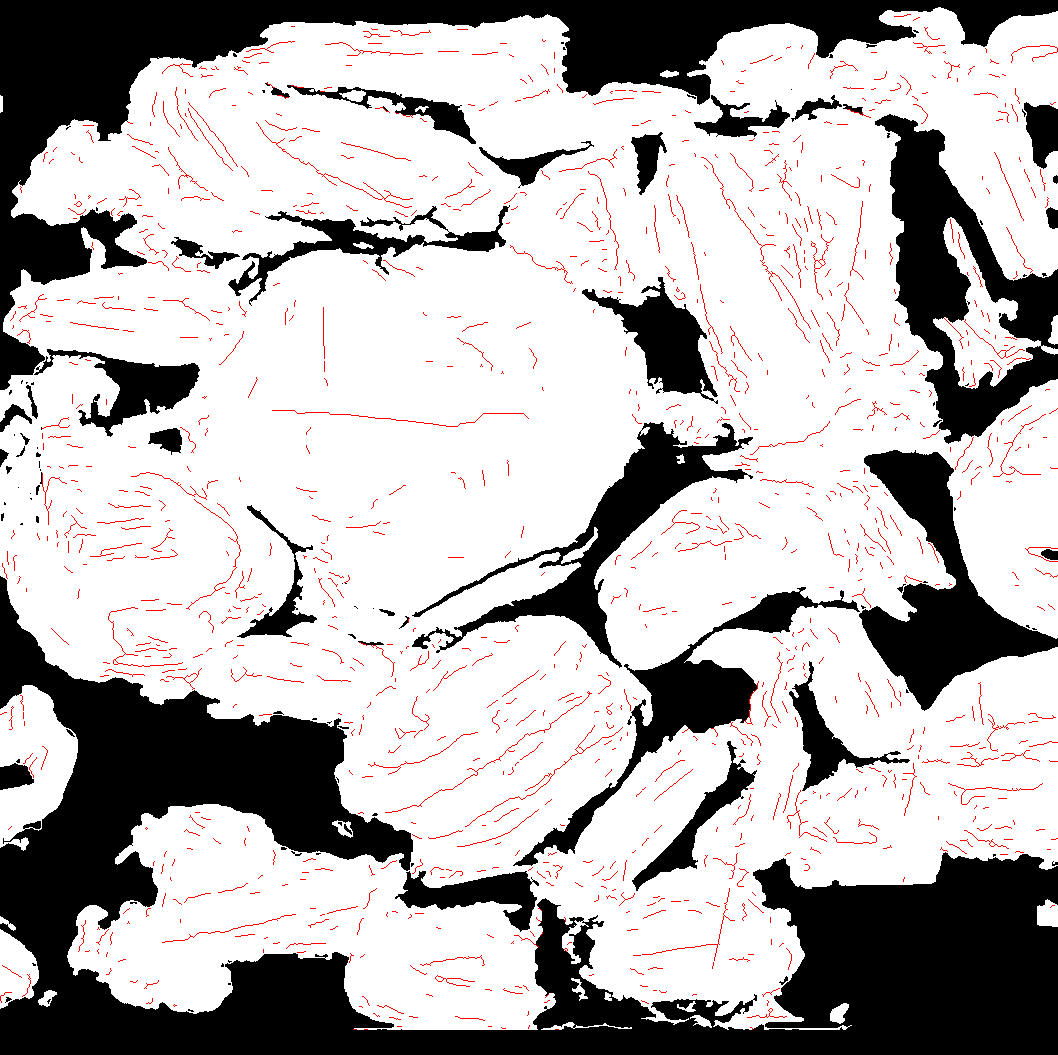
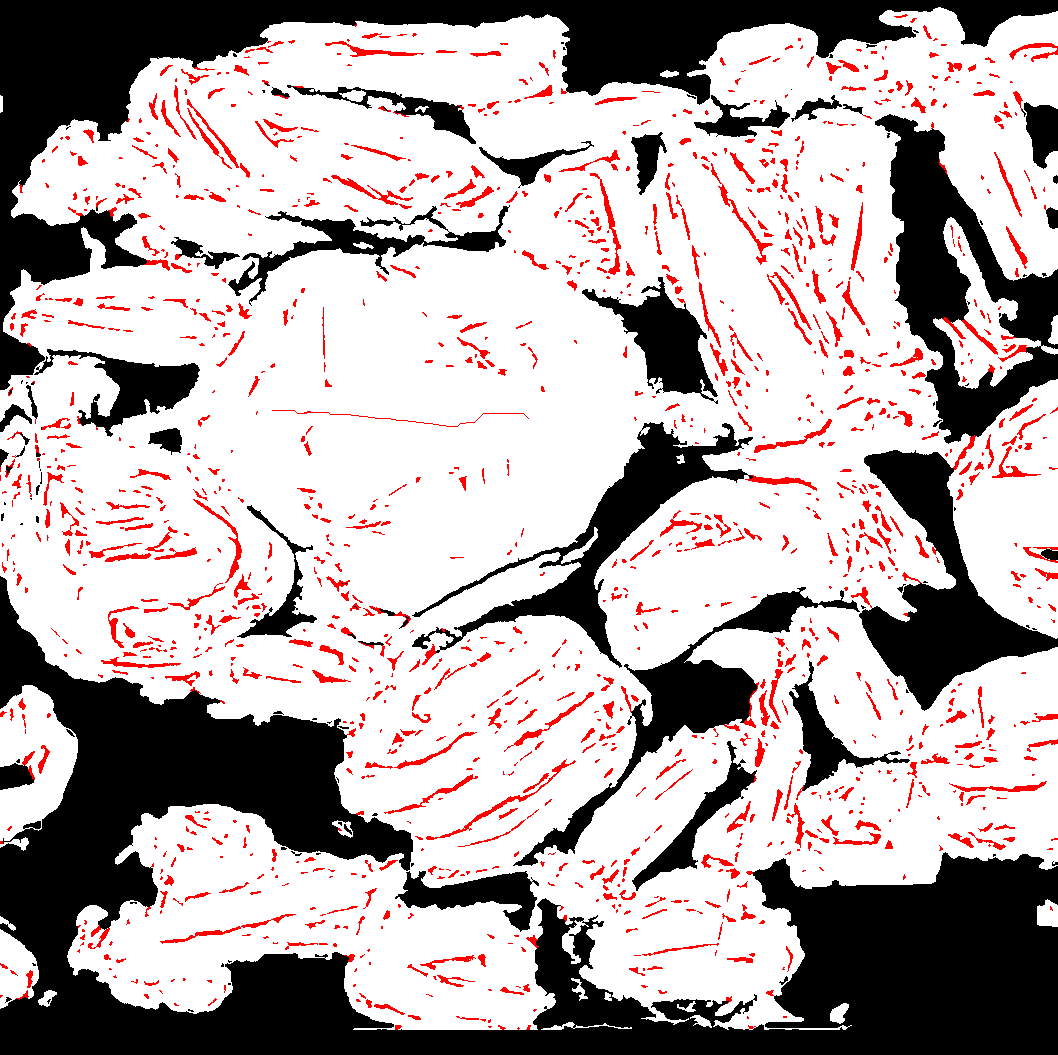
Draw sample4's cracks at the width visible in the image

diff --git a/docs/dino-features.md b/docs/dino-features.md
@@ -72,7 +72,7 @@ The seeds come from brightness, so particle/pore/binder favour brightness featur
 | 1 | particle (white), pore (black), crack (red); every pixel scored | `make_truth.py`, then binder merged into pore; unscored specks under 30 px take their nearest label, wider unscored areas split at the particle edge level (141.5). Cracks are then thinned to pixels at least 12 gray levels darker than a 5 px closing of the image; crack lines lying mostly along pore are pore. Thin pore (half-width ≤ 2.5 px) more than 3 px inside a particle outline (4 px closing) is crack. Crack lines of at least 10 px within 2 px of a large particle's convex outline (pieces of 2 000 px or more) that open onto pore are gaps between particles and become pore. Second pass with sample2's gap tools (cracks counted as part of their particle for connectivity): line-filter cut with thresholds scaled by the particle–pore contrast (×1.68), rim revert, pruning and thinning; 12 hand cuts between big particles and the grain clusters touching them; then the faintest 48 of 154 added seams checked by eye and 25 joined again (502 → 619 pieces) |
 | 2 | particle (white), pore (black), crack (red); every pixel scored | `make_truth.py --scale .5 --split`, then sample1's clean-up (binder into pore, unscored filled at edge level 109.5, cracks thinned), then only long line-shaped cracks kept and each of the remaining 19 checked by eye: 6 kept. Particle outlines were then redrawn from the image: luminance smoothed at σ 0.7 above 109.5, holes up to 6 px filled, specks up to 4 px dropped; touching particles were split along thin dark lines found by an oriented line filter (hysteresis 12 / 5, see `study.md`), cuts that separate nothing or that only shave particle rims were undone, and 25 faint gaps were cut by hand along the darkest path, piece by piece. Gaps were then thinned to their darkest separating line (brightest gap pixels given back while they join nothing), and dark lines inside one particle (line score above 9, at least 2 px from the outline, 6 px long) became crack after a check by eye: 27 of 59 kept. Finally every added seam between two pieces was ranked by contrast (particle beside it minus the seam) and the 120 faintest were checked by eye: 49 with no visible gap were joined again |
 | 3 | large particle (white), small particle (blue), pore (black); every pixel scored | Background-corrected foreground (smoothed level minus a 5th-percentile background over ~60 px, above 18), holes and specks up to 20 / 6 px filled; dark seams cut with the line filter (score > 24 reaching pore, > 12 joined to it); large where a disk of radius 7 fits after the cut, regrown 4 px inside the particle; seam pixels take the nearer side; shaded faces of large particles joined to them after a check by eye (3, then 39 of 91 candidates); finally a 1 px pore line between every two particles (small: seam-cut pieces of 8 px or more; large: pieces of 150 px or more after cutting along line score > 12; other pixels take the nearest piece of their class); then a hand pass: arms split off large particles, small clusters split by a distance-map watershed (h 0.3, then 0.15), slivers under radius 2 merged, about 40 merged particles cut along the darkest path, a few classes set by eye (1,853 particles). Differs from `eval/truth/sample3_size_mask.png`, which the evaluation tables still use |
-| 4 | particle (white), pore (black), crack (red); every pixel scored | `make_sample4_truth.py` with its hand boxes cleared (their pixels take the nearest label), then: bright pixels (> 100) grown from each section in 5 px steps, up to 10 px away, join it; section outline = closing (r 2) of particle, holes filled; inside it, pixels darker than 40 or with black-hat (r 3) above 18 and at least 1.5 px from the outline are crack (pieces of 6 px or more), dark pieces wider than 7 px or touching the outline are pore; everything outside is pore, including the current collector; hand polygons, whose edges follow the darkest path between their corners, mark surfaces behind the section plane and binder clumps as pore and lost rims as particle; cracks thinned to their darkest 1 px line with spurs under 5 px removed, plus one faint crack traced by hand |
+| 4 | particle (white), pore (black), crack (red); every pixel scored | `make_sample4_truth.py` with its hand boxes cleared (their pixels take the nearest label), then: bright pixels (> 100) grown from each section in 5 px steps, up to 10 px away, join it; section outline = closing (r 2) of particle, holes filled; inside it, pixels darker than 40 or with black-hat (r 3) above 18 and at least 1.5 px from the outline are crack (pieces of 6 px or more), dark pieces wider than 7 px or touching the outline are pore; everything outside is pore, including the current collector; hand polygons, whose edges follow the darkest path between their corners, mark surfaces behind the section plane and binder clumps as pore and lost rims as particle; cracks at the width seen in the image: particle pixels darker than a 15 px median of the section by more than 35, grown through pixels darker by more than 25, plus thin slits with a 5 px black-hat above 16, plus one faint crack traced by hand |
 
 Since then `make_truth.py` turns filled cracks outside deep particle interiors into pore. The tables below still use truth v2 in `eval/truth/`.
 

diff --git a/docs/study.md b/docs/study.md
@@ -117,4 +117,5 @@ def line_score(img, L=9, off=2.5, n=16):
 - **Polygons that add particle** should claim only pixels brighter than the pore (> 55). Otherwise they carry a dark strip along their edge.
 - **Rims, second pass:** a rim separated from its section by a thin dark line sits 5–8 px out. Growing in 5 px steps up to 10 px from the section caught these. Up to 16 px it also took in surfaces behind the section.
 - **Snapping can fail** where a dark line runs just inside a rim. The path then cuts the rim off, and the edge is better kept as drawn.
+- **Crack width as seen, not 1 px:** for sample4 the key should match the image, so the 1 px thinning was dropped. Compare each pixel with the section around it: a 15 px median of the smoothed image is the section level, since slits are too thin to move it. Pixels darker than that by more than 35 seed a crack; it grows through pixels darker by more than 25. A 5 px black-hat above 16 adds slits 1–2 px wide that the median rule misses. At 22/12 the shaded slopes beside each slit came in and cracks were twice too wide; at 40/28 slits broke apart.
 
